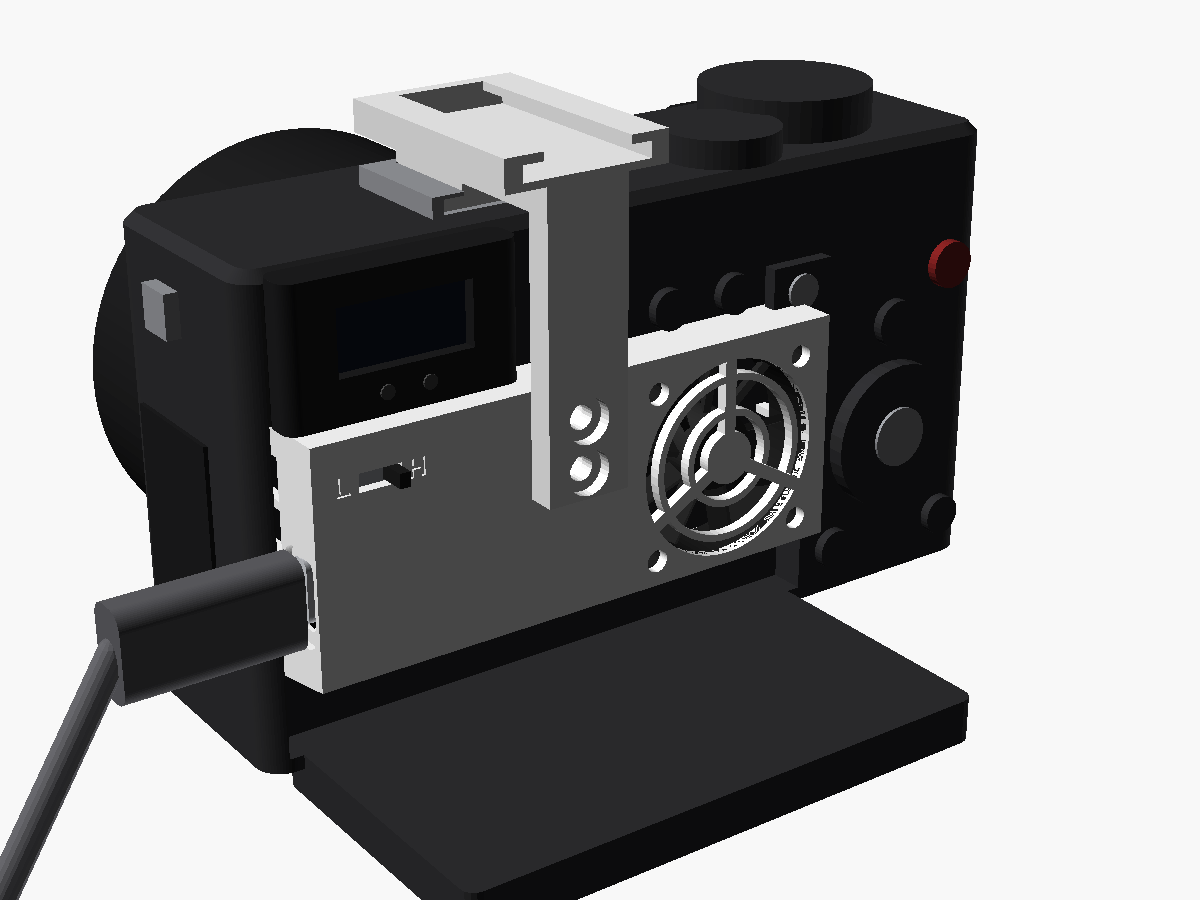
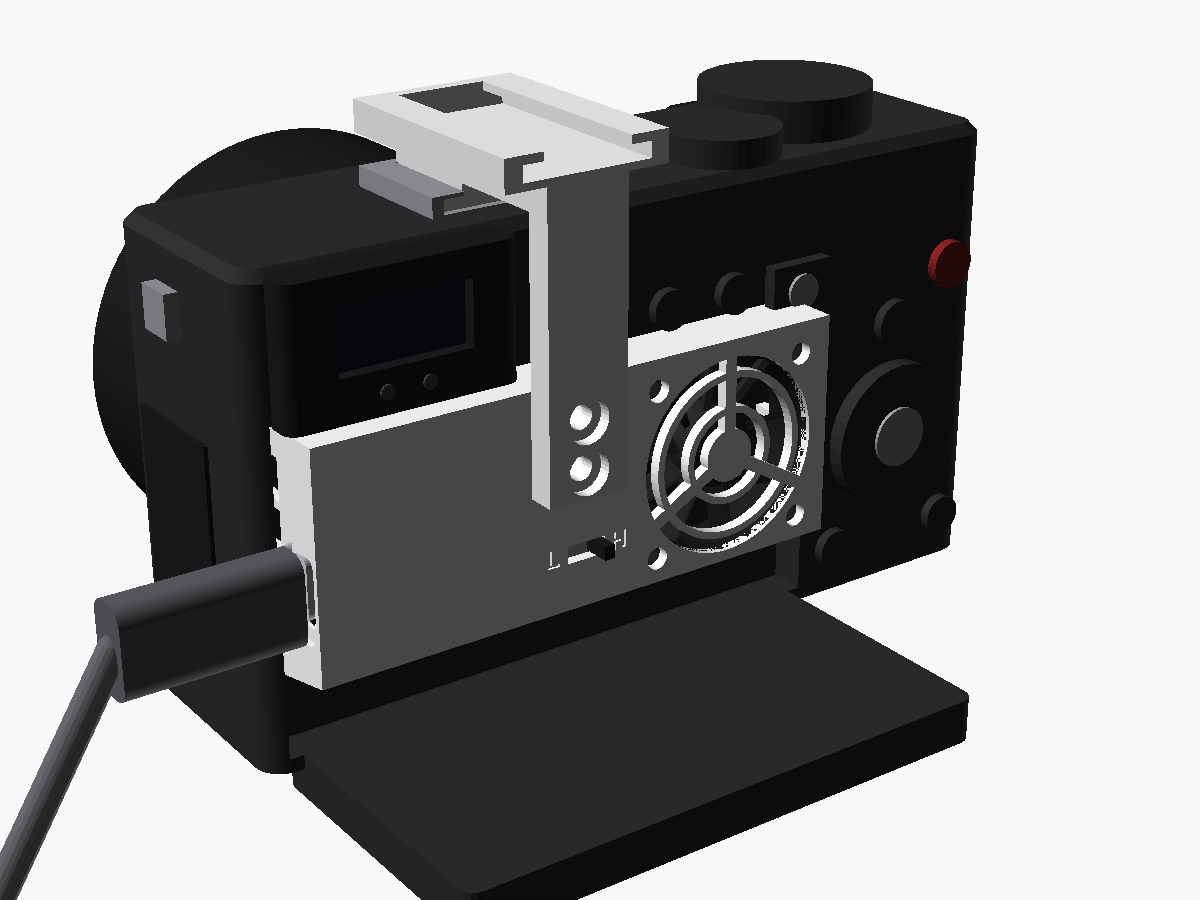
Sony a6300 fan box: steeper bevel, switch by the fan, handoff note
Bottom bevel 3 mm (35 against the plate, 32 at the front) with a 1.2 mm top
wall so the fan sits higher; switch moved low next to the fan. HANDOFF.md
records the real state: the tilted screen covers the lower front (switch and
part of the fan intake), the exhaust slots sit inside the 5.2 mm recess, and
holding is open (screen pressure for now; screwed arm or a one-piece slide-in
as options), plus the CI note for merging.

diff --git a/sony-a6300-fan/HANDOFF.md b/sony-a6300-fan/HANDOFF.md
@@ -1,0 +1,97 @@
+# Handoff: Sony a6300 rear cooling fan (2026-11-18)
+
+State of the design, what is known, what is wrong, and what to do next. Nothing has been printed.
+The README has the parts, BOM, wiring and the measurement table.
+
+## Goal
+
+Keep an a6300 recording 4K for long takes (the 30-min cap is removed with OpenMemories: Tweak) by blowing
+air onto the magnesium back plate. The box sits in the recess the screen leaves when it is tilted up.
+It needs 5 V from USB-C and has Low / Off / High.
+
+## What is solid
+
+- **Space on the camera, from a cardboard test on the real body.** A block 80 mm wide, 35 mm tall against
+  the plate and 32.5–33 mm at the outside face fits under the eyepiece with the screen tilted up. The bottom
+  is bevelled straight from the plate so it clears the screen's hinge arm. About 14 mm of depth is free
+  before the screen touches. The top 14.5–15 mm under the eyepiece is free at any depth.
+- **Camera facts** (calipers, ±0.3). Screen recess 5.2 deep (5.19–5.51). Screen 6.3–6.4 thick. Eyepiece
+  sticks out 9.92 from the plate. Shoe open end 5.88 in from the back edge, with a small hump in between.
+- **Bought parts at real sizes.**
+  - Adafruit 4090 USB-C board, from its Eagle file.
+  - 3007 fan, 30 × 30 × 7, holes on 24 × 24.
+  - SS13D07 1P3T slide switch, 12.7 × 4.5 × 4.7.
+  - 2 × 1N4001 diodes for Low.
+- **Printability.** Box, arm and fit-test shell export manifold and print without supports. Checked with
+  `tools/stl-check.py`.
+
+## What is wrong or unproven, most serious first
+
+1. **The screen covers the lower part of the box's front.** In the shooting position the screen's top edge
+   rests on the front face about 15 mm below the top. Below that line there is a wedge of space under the
+   screen, open at both sides. The renders don't show this: `a6300-camera.scad` draws the screen flipped flat
+   because its linkage isn't modelled.
+   Consequences:
+   - **Switch.** It sits low on the front next to the fan (`sw_zc = 11`), where the screen hides it. It must
+     move: to the left side (cable side), or into the top band.
+     - The left side is out with the current USB-C board: the Adafruit 4090 is 20.3 mm tall and the
+       switch needs about 15 mm more.
+     - So the left side needs a smaller board with the connector on its short edge and 5.1 kΩ on CC1/CC2.
+   - **Fan intake.** Only the top ~13 mm of the grille is in free air. The rest draws through the wedge under
+     the screen. Airflow will be lower than the fan's rating, by an unknown amount. Keep the grille above
+     the line where the screen rests.
+2. **Exhaust is mostly blocked.** The outlet slots run along the back edge of every wall, within 4.4 mm of
+   the plate (`air_gap`). The recess is 5.2 mm deep, so the side slots face the recess walls and the top
+   slots face the eyepiece and the camera frame. Only the bottom is really open. Outlets have to sit further
+   than 5.2 mm from the plate: on the right end and along the bottom. Keep them away from the wedge under
+   the screen so the fan doesn't pull its own warm air back in.
+3. **Holding it on the camera is not settled.**
+   - **Current plan, no holder:** the tilted-up screen presses the box against the plate, and the recess
+     walls and the eyepiece stop it moving sideways and up. That means shooting with the screen up.
+     - **Risk:** it falls out when the screen is moved.
+     - **Cheap backup:** a thin micro-suction or removable adhesive pad on the box's back feet, or a cord
+       to a strap lug.
+   - **Option: screwed shoe arm** (`sony-a6300-fan-arm.scad`). The foot goes in the flash shoe, a bridge
+     runs over the top, and a tab screws to the box's front in the top band (2 × M3 into heat-set inserts).
+     It works, but it's two parts and screws.
+   - **Option, not built yet: one-piece slide-in.** The arm is part of the box: the front plate continues
+     up as a flat strip, then a bridge and a foot.
+     - **How it goes on:** the shoe and the recess are entered in the same direction. Push the whole thing
+       toward the lens; the foot slides into the shoe as the box seats on the plate, and the plate is the
+       stop.
+     - **Printing:** front face down, arm flat on the bed, bridge rising as a column. The foot needs a 45°
+       lead-in. The bridge's layers run across its load, so make it thick (about 12 × 6).
+     - **Needs checking:** that the screen can be held out of the way while sliding it in.
+4. **Positions read from photos are ±2 mm.** Shoe centre ~41 mm from the eyepiece-side end, flash and MENU
+   buttons ~62 and ~73 mm, recess right edge ~87 mm. They matter for the arm only.
+5. **Fan noise and airflow aren't verified.**
+   - The WINSINN 3007 hydraulic publishes no airflow or noise figure. A comparable fan family suggests
+     ~28 dBA at full speed, ~21 dBA on Low.
+   - Low mode (two diodes, ~3.4 V) may not start every fan. Fallback: one diode.
+6. **The fan blows straight onto a 4.4 mm gap.** Fine on paper, but untested.
+7. **CI side effect.** `.github/matrix/generate.py` renders an STL and PNG for every committed `.scad`.
+   Merging this folder to `main` would also make STLs of the display-only files: `-scene`, `a6300-camera`,
+   `-fit-test`, and the arm if it's dropped. Exclude them before merging.
+
+## Files
+
+| File | Role |
+|---|---|
+| `sony-a6300-fan.scad` | Box. All parameters at the top. `orient = "print"` (front face down) or `"display"` |
+| `sony-a6300-fan-arm.scad` | Optional screwed shoe arm. Includes the box file for shared numbers |
+| `sony-a6300-fan-fit-test.scad` | 0.8 mm shell with the box's outside shape and depth marks. Print this before the box |
+| `sony-a6300-fan-scene.scad` | Display only: box, arm, parts and wires on the camera. `-D cutaway=true` |
+| `a6300-camera.scad` | Display model: Sony's dimensions plus the measurements above. Screen linkage not modelled |
+
+Render with the CI image (see the repo's AGENTS.md). Preview mode (no `--render`) keeps the colours.
+
+## Next steps
+
+1. Model the screen in its shooting position: a keep-out solid from the cardboard test, or the real linkage
+   (hinge positions and arm length, 5 caliper numbers). Make the scene check that nothing sits behind it.
+2. Move the outlets out of the recess and keep the grille above the screen line. Then move the switch:
+   left side with a smaller USB-C board, or the top band.
+3. Print the fit-test shell; check the fit and that the screen holds it.
+4. Decide on holding: no holder plus a backup pad, the screwed arm, or the one-piece slide-in.
+5. Print the box, wire it, and test: 4K, Auto Pwr OFF Temp = High, dummy battery. Log the time to the overheat
+   warning with and without the fan, at the same room temperature.

diff --git a/sony-a6300-fan/README.md b/sony-a6300-fan/README.md
@@ -6,6 +6,10 @@ cable side and has a thumbnail slide switch: Low / Off / High. A second part, an
 shoe, holds it. The box size comes from a cardboard test on the real camera; the arm position from
 caliper readings and photos (±2 mm). **Not printed yet.**
 
+**Status and known problems: see [HANDOFF.md](HANDOFF.md).** In short: the tilted screen covers the lower front
+(the switch is currently placed there and has to move), the exhaust slots mostly face the recess walls, and how
+the box is held is open (current plan: the screen pressing it in place).
+
 | On the camera | Inside (front cut away) | Side | Arm and shoe |
 |---|---|---|---|
 | ![](scene-iso.png) | ![](scene-cutaway.png) | ![](scene-side.png) | ![](scene-mount.png) |
@@ -26,7 +30,7 @@ caliper readings and photos (±2 mm). **Not printed yet.**
 | Fan, ball-bearing alternative | GDSTIME 3007 5V dual ball (Amazon) | 30 × 30 × 7 | 9000 rpm, 4.1 CFM, "25 dBA ±10 %", 0.15 A. Longest life, but more bearing tick and hum |
 | Fan, best (if you find it) | Sunon MF30060V2-1000U-A99 | 30 × 30 × 6.5, fits the same box | 3.7 CFM at 15.7 dB(A). Distributors only (DigiKey, Mouser), often out of stock |
 | USB-C | **Adafruit 4090**, "USB Type C Breakout Board – Downstream Connection" | PCB 20.32 × 13.97 × 1.6, connector centred on the long edge, 2 × Ø2.5 holes 15.24 apart, 2.54 in from the connector edge | Numbers from Adafruit's Eagle board file. 5.1 kΩ on CC1 and CC2 (R1, R2), so C-to-C chargers give 5 V. Solder the wires to VBUS/GND, no header |
-| Switch | **SS13D07 mini slide switch, 1P3T** (3 positions, "L4" = 4 mm knob), e.g. XKB SS13D07L4B | Body 12.7 × 4.5 × 4.7, knob 4 mm, 2 mm per step | Sits in a printed cradle behind the electronics bay's front face and slides sideways; the knob pokes ~2.4 mm out. L and H engraved beside the slot |
+| Switch | **SS13D07 mini slide switch, 1P3T** (3 positions, "L4" = 4 mm knob), e.g. XKB SS13D07L4B | Body 12.7 × 4.5 × 4.7, knob 4 mm, 2 mm per step | Sits in a printed cradle behind the front face, low and just left of the fan, and slides sideways; the knob pokes ~2.4 mm out. L and H engraved beside the slot |
 | Low-speed diodes | 2 × 1N4001 (or 1N4007) | DO-41, 5 × 2.7 mm | ~0.8 V drop each, nearly independent of current, so the fan still starts on Low |
 | Fixing | 2 printed pins through the board holes (heat-staked), or M2.5 screws into the posts | | |
 
@@ -57,16 +61,18 @@ Tools: soldering iron, calipers, M3 tap or screwdriver.
 
     front (operator side)
       ┌──────┬────────────┬───────────┐
-      │ L◦H  │     ◉ ◉ ←arm tab        │   switch in the bay's front face, arm screws in the top band
+      │      │     ◉ ◉ ←arm tab        │   arm screws in the top band
     ▭─┤ bay  │  chamber   │  ( fan )  │   USB-C out of the left wall; fan top right, blowing onto the plate
-      └──────┴────────────┴───────────┘   bottom bevelled from 0 at the plate to 2.5 mm at the front
+      │      │      L◦H   │           │   switch low, next to the fan (away from the eyepiece)
+      └──────┴────────────┴───────────┘   bottom bevelled from 0 at the plate to 3 mm at the front
     back edge of all 4 walls: ribbed exhaust band, as tall as the fan-to-plate gap
 
 **80 × 35 × 13 mm**, exhaust 715 mm² vs 503 mm² fan opening.
 
 - **Size, from the cardboard test on the camera:** 35 mm tall against the plate (36 just squeezes in) and 32.5 mm at the
-  front: the bottom is bevelled straight from the plate (`slant_rise = 2.5`) to clear the screen's hinge arm, and the
-  inside floor follows it. The screen leaves about 14 mm of depth, so the box is 13.0 (1.6 front + 7 fan + 4.4 gap). The
+  front in the test; the box goes to 32 (`slant_rise = 3`, about the most before the bevel reaches the fan). The
+  bottom is bevelled straight from the plate to clear the screen's hinge arm, and the inside floor follows it.
+  The top wall is 1.2 mm so the fan sits as high as possible. The screen leaves about 14 mm of depth, so the box is 13.0 (1.6 front + 7 fan + 4.4 gap). The
   recess is about 84 mm wide; the box is 80, placed 1 mm from its left edge.
 - **Layout:** the electronics bay is on the left (cable side), the fan in the top right corner (room for the bevel
   below it), and the closed chamber between them makes the air sweep the plate before it leaves through the ribs.
@@ -84,7 +90,8 @@ Tools: soldering iron, calipers, M3 tap or screwdriver.
   the screen back, to the right toward the buttons, and left through the bay. None of it goes back into the intake.
 - **USB-C:** the board stands parallel to the front face on two posts from the front wall. Outside, the left wall is
   counterbored down to 0.6 mm around the opening so the plug's overmold sits in it and the plug reaches full depth.
-- **Switch:** in the bay's front face, above the USB-C board (the box is too short to stack both on the side wall). The knob sticks out ~2.4 mm.
+- **Switch:** in the front face just left of the fan, low down, so your finger stays away from the eyepiece and its
+  rubber cup, and below the arm's screws. The knob sticks out ~2.4 mm.
 - **Eye sensor:** it sits on the eyepiece, right above the box. Set *FINDER/MONITOR → Monitor (manual)*.
 - **Mounting: shoe arm** ([sony-a6300-fan-arm.scad](sony-a6300-fan-arm.scad), [close-up](scene-mount.png)).
   A foot (ISO 518, 18.4 × 16 × 1.9 mm) slides into the camera's shoe from the back, a bridge crosses the top
